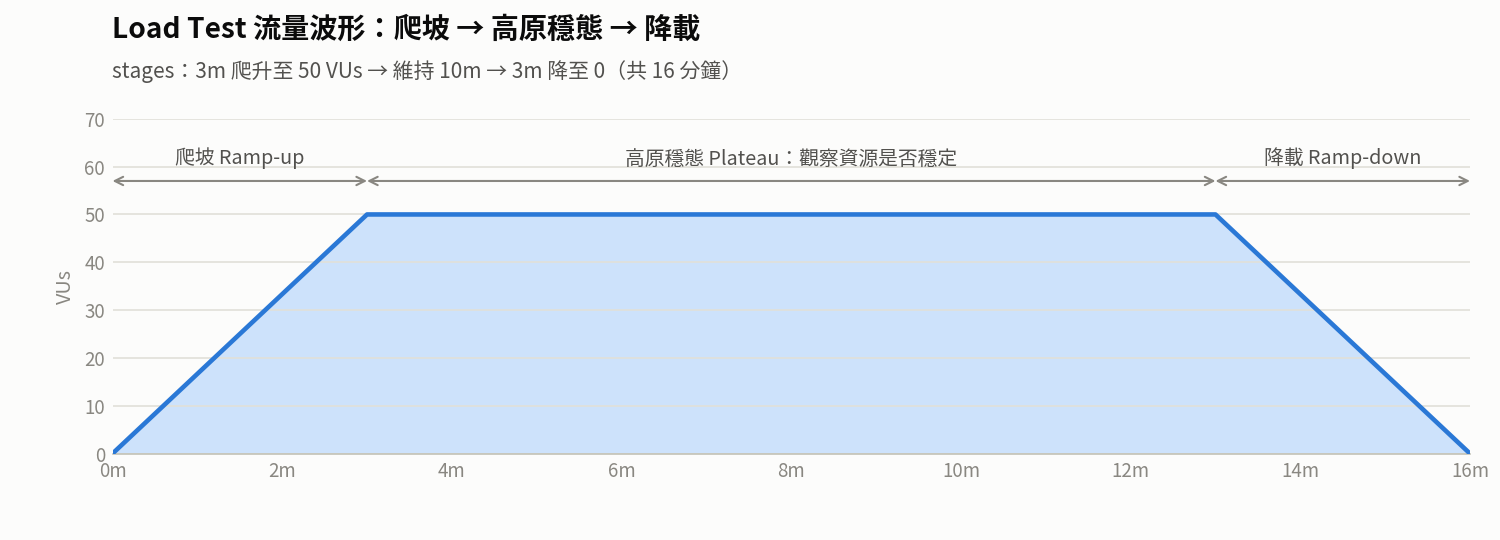
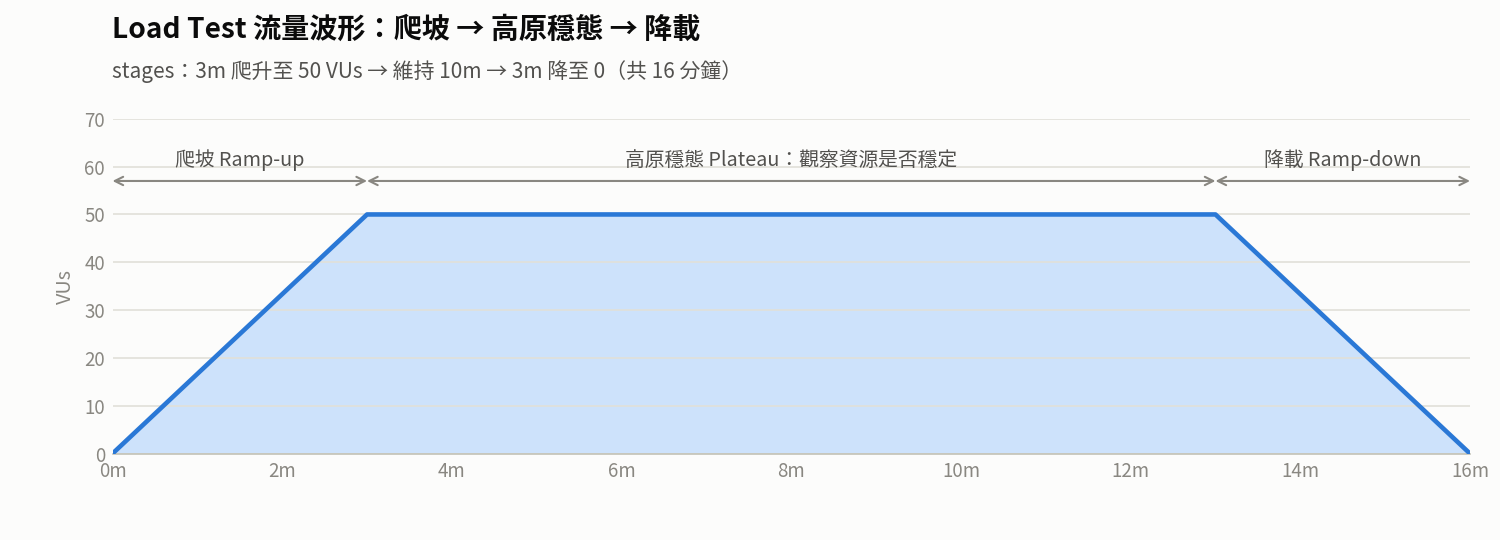
docs(k6): add smoke and soak waveform figures to Ch2
All five traffic patterns now have a VU-over-time figure plotted from
their config. Smoke is drawn as a step (vus: 1 from the first second,
no ramp); soak labels the short warm-up/cool-down and the slope and
recovery checks. Also scale phase-label offsets to the y range, which
nudges the load and spike labels slightly.

Changed region(s): [[0.3987, 0.2667, 0.644, 0.3259], [0.828, 0.2667, 0.9507, 0.3259], [0.1227, 0.2667, 0.184, 0.3259]]

diff --git a/scripts/generate_traffic_pattern_figures.py b/scripts/generate_traffic_pattern_figures.py
@@ -3,9 +3,11 @@
 Render the Chapter 2 traffic-pattern figures for the k6 codelab, plotted from the
 exact `stages` arrays shown next to each figure (k6 ramps linearly between stages):
 
+    codelabs/tutorials/assets/images/k6-ch2-smoke-pattern.png
     codelabs/tutorials/assets/images/k6-ch2-load-pattern.png
     codelabs/tutorials/assets/images/k6-ch2-stress-pattern.png
     codelabs/tutorials/assets/images/k6-ch2-spike-pattern.png
+    codelabs/tutorials/assets/images/k6-ch2-soak-pattern.png
 
 If you change a `stages` example in the codelab, update STAGES here and re-run.
 Single series per chart, so no legend: the title names it and phases are labelled
@@ -43,7 +45,10 @@ STAGES = {
     "stress": [(120, 50), (180, 50), (120, 100), (180, 100), (120, 200), (180, 200),
                (120, 300), (180, 300), (180, 0)],
     "spike": [(30, 10), (10, 200), (60, 200), (10, 10), (120, 10), (10, 0)],
+    "soak": [(300, 40), (4 * 3600, 40), (300, 0)],
 }
+# Smoke uses `vus: 1, duration: '1m'` (no stages): 1 VU from the first second, no ramp.
+SMOKE_VUS, SMOKE_SECONDS = 1, 60
 
 
 def points(stages):
@@ -81,7 +86,7 @@ def draw(ax, t, v):
 def phase(ax, x0, x1, y, text, color=INK_2):
     ax.annotate("", xy=(x0, y), xytext=(x1, y),
                 arrowprops=dict(arrowstyle="<->", color=MUTED, lw=1, shrinkA=0, shrinkB=0))
-    ax.text((x0 + x1) / 2, y + 0.02 * ax.get_ylim()[1] + 1, text, ha="center", va="bottom", fontsize=9.5, color=color)
+    ax.text((x0 + x1) / 2, y + 0.03 * ax.get_ylim()[1], text, ha="center", va="bottom", fontsize=9.5, color=color)
 
 
 def save(fig, name):
@@ -138,11 +143,44 @@ def spike():
     save(fig, "k6-ch2-spike-pattern.png")
 
 
+def hours(x, _):
+    return f"{x / 3600:g}h"
+
+
+def smoke():
+    t = [0, 0, SMOKE_SECONDS, SMOKE_SECONDS]
+    v = [0, SMOKE_VUS, SMOKE_VUS, 0]
+    fig, ax = base_axes("Smoke Test 流量波形：固定 1 VU，驗證腳本與環境",
+                        "options：vus: 1、duration: '1m'（沒有 stages，從第一秒起就是 1 個 VU，不爬坡）",
+                        SMOKE_SECONDS * 1.25, 3, 15, mmss)
+    ax.yaxis.set_major_locator(MultipleLocator(1))
+    draw(ax, t, v)
+    phase(ax, 0, SMOKE_SECONDS, 1.55, "1 分鐘：API 路由、Token、資料庫連線是否全部正常？")
+    ax.text(SMOKE_SECONDS + 1.5, 0.5, "門檻：錯誤率 = 0\nchecks 全數通過", fontsize=9.5, color=INK_2, va="center")
+    save(fig, "k6-ch2-smoke-pattern.png")
+
+
+def soak():
+    t, v = points(STAGES["soak"])
+    fig, ax = base_axes("Soak Test 流量波形：固定負載長跑，讓時間成為唯一變數",
+                        "stages：5m 預熱至 40 VUs → 維持 4h → 5m 收尾（共 4 小時 10 分鐘；生產級常跑 8~24 小時）",
+                        t[-1], 60, 1800, hours)
+    draw(ax, t, v)
+    ax.annotate("預熱 5m", xy=(150, 20), xytext=(700, 12), fontsize=9.5, color=INK_2, va="center",
+                arrowprops=dict(arrowstyle="->", color=MUTED, lw=1))
+    phase(ax, 300, 300 + 4 * 3600, 46, "固定 40 VUs × 4h：看 P95、錯誤率、RPS 的「斜率」，而不只是紅綠燈")
+    ax.annotate("收尾 5m：負載歸零後\n系統有沒有恢復？", xy=(t[-1] - 150, 20), xytext=(t[-1] - 3300, 14),
+                fontsize=9.5, color=INK_2, va="center", arrowprops=dict(arrowstyle="->", color=MUTED, lw=1))
+    save(fig, "k6-ch2-soak-pattern.png")
+
+
 def main():
     os.makedirs(IMG_DIR, exist_ok=True)
+    smoke()
     load()
     stress()
     spike()
+    soak()
 
 
 if __name__ == "__main__":

diff --git a/codelabs/tutorials/k6-performance-testing.md b/codelabs/tutorials/k6-performance-testing.md
@@ -439,6 +439,9 @@ Duration: 25
 
 - **業務目標**：極小負載下的功能性「健康校驗」。通常在壓測腳本剛寫完、或微服務新版本部署至 Staging 環境時執行，確認 API 路由、鑑權 Token、資料庫連線通暢無阻。
 - **流量特徵**：1~2 個 VU，測試時長 30 秒至 1 分鐘。
+
+![Smoke Test 流量波形：從第一秒起固定 1 個 VU，持續 1 分鐘](assets/images/k6-ch2-smoke-pattern.png)
+
 - **配置範例**：
 
 ```javascript
@@ -539,6 +542,9 @@ export const options = {
   2. **連線池洩漏 (Connection Pool Exhaustion)**：資料庫 Query 或 HTTP Client 連線未顯式關閉，累積數小時後池化連線耗盡。
   3. **日誌與磁碟爆滿 (Disk Full)**：無上限日誌堆積填滿 Pod 磁碟空間引發 Evicted。
   4. **認證憑證失效 (Token Expiration)**：JWT/OAuth Token 長期運行未刷新，引發大面積 401 故障。
+
+![Soak Test 流量波形：5 分鐘預熱至 40 VUs，固定維持 4 小時，5 分鐘收尾](assets/images/k6-ch2-soak-pattern.png)
+
 - **配置範例**：
 
 ```javascript
